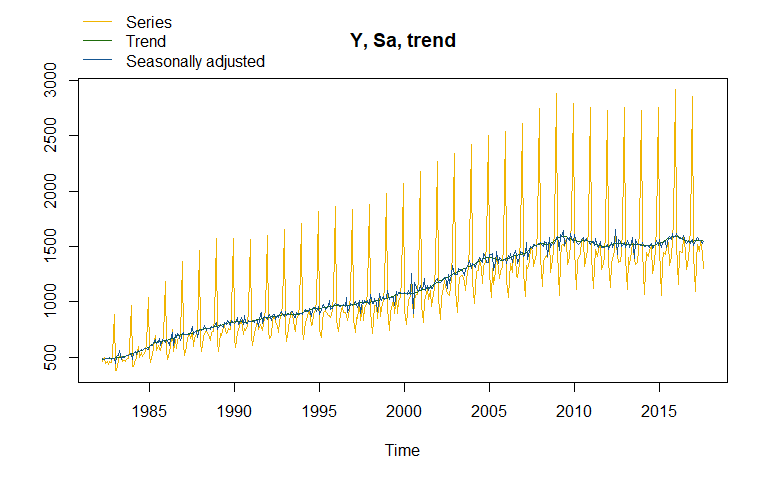
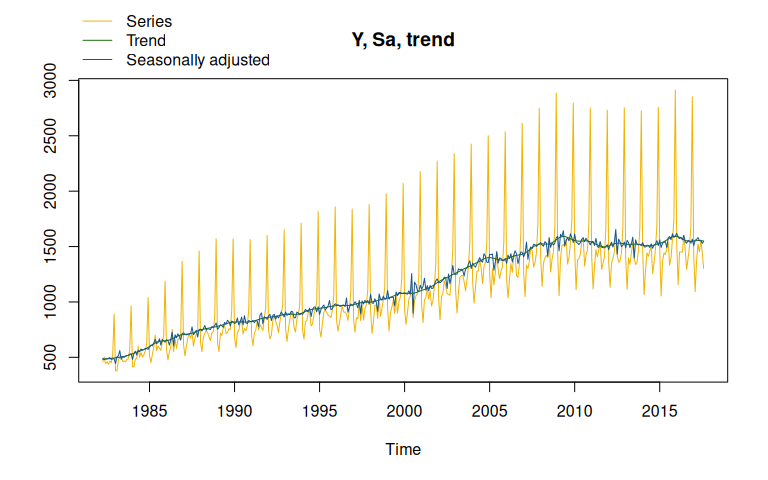
update README

diff --git a/README.md b/README.md
@@ -6,7 +6,9 @@
 <!-- badges: start -->
 
 [![CRAN
-status](https://www.r-pkg.org/badges/version/rjd3x13)](https://CRAN.R-project.org/package=rjd3x13)
+status](https://www.r-pkg.org/badges/version/rjd3x13)](https://cran.r-project.org/package=rjd3x13)
+[![Mentioned in Awesome Official
+Statistics](https://awesome.re/mentioned-badge.svg)](https://github.com/SNStatComp/awesome-official-statistics-software)
 
 [![R-CMD-check](https://github.com/rjdverse/rjd3x13/actions/workflows/R-CMD-check.yaml/badge.svg)](https://github.com/rjdverse/rjd3x13/actions/workflows/R-CMD-check.yaml)
 [![lint](https://github.com/rjdverse/rjd3x13/actions/workflows/lint.yaml/badge.svg)](https://github.com/rjdverse/rjd3x13/actions/workflows/lint.yaml)